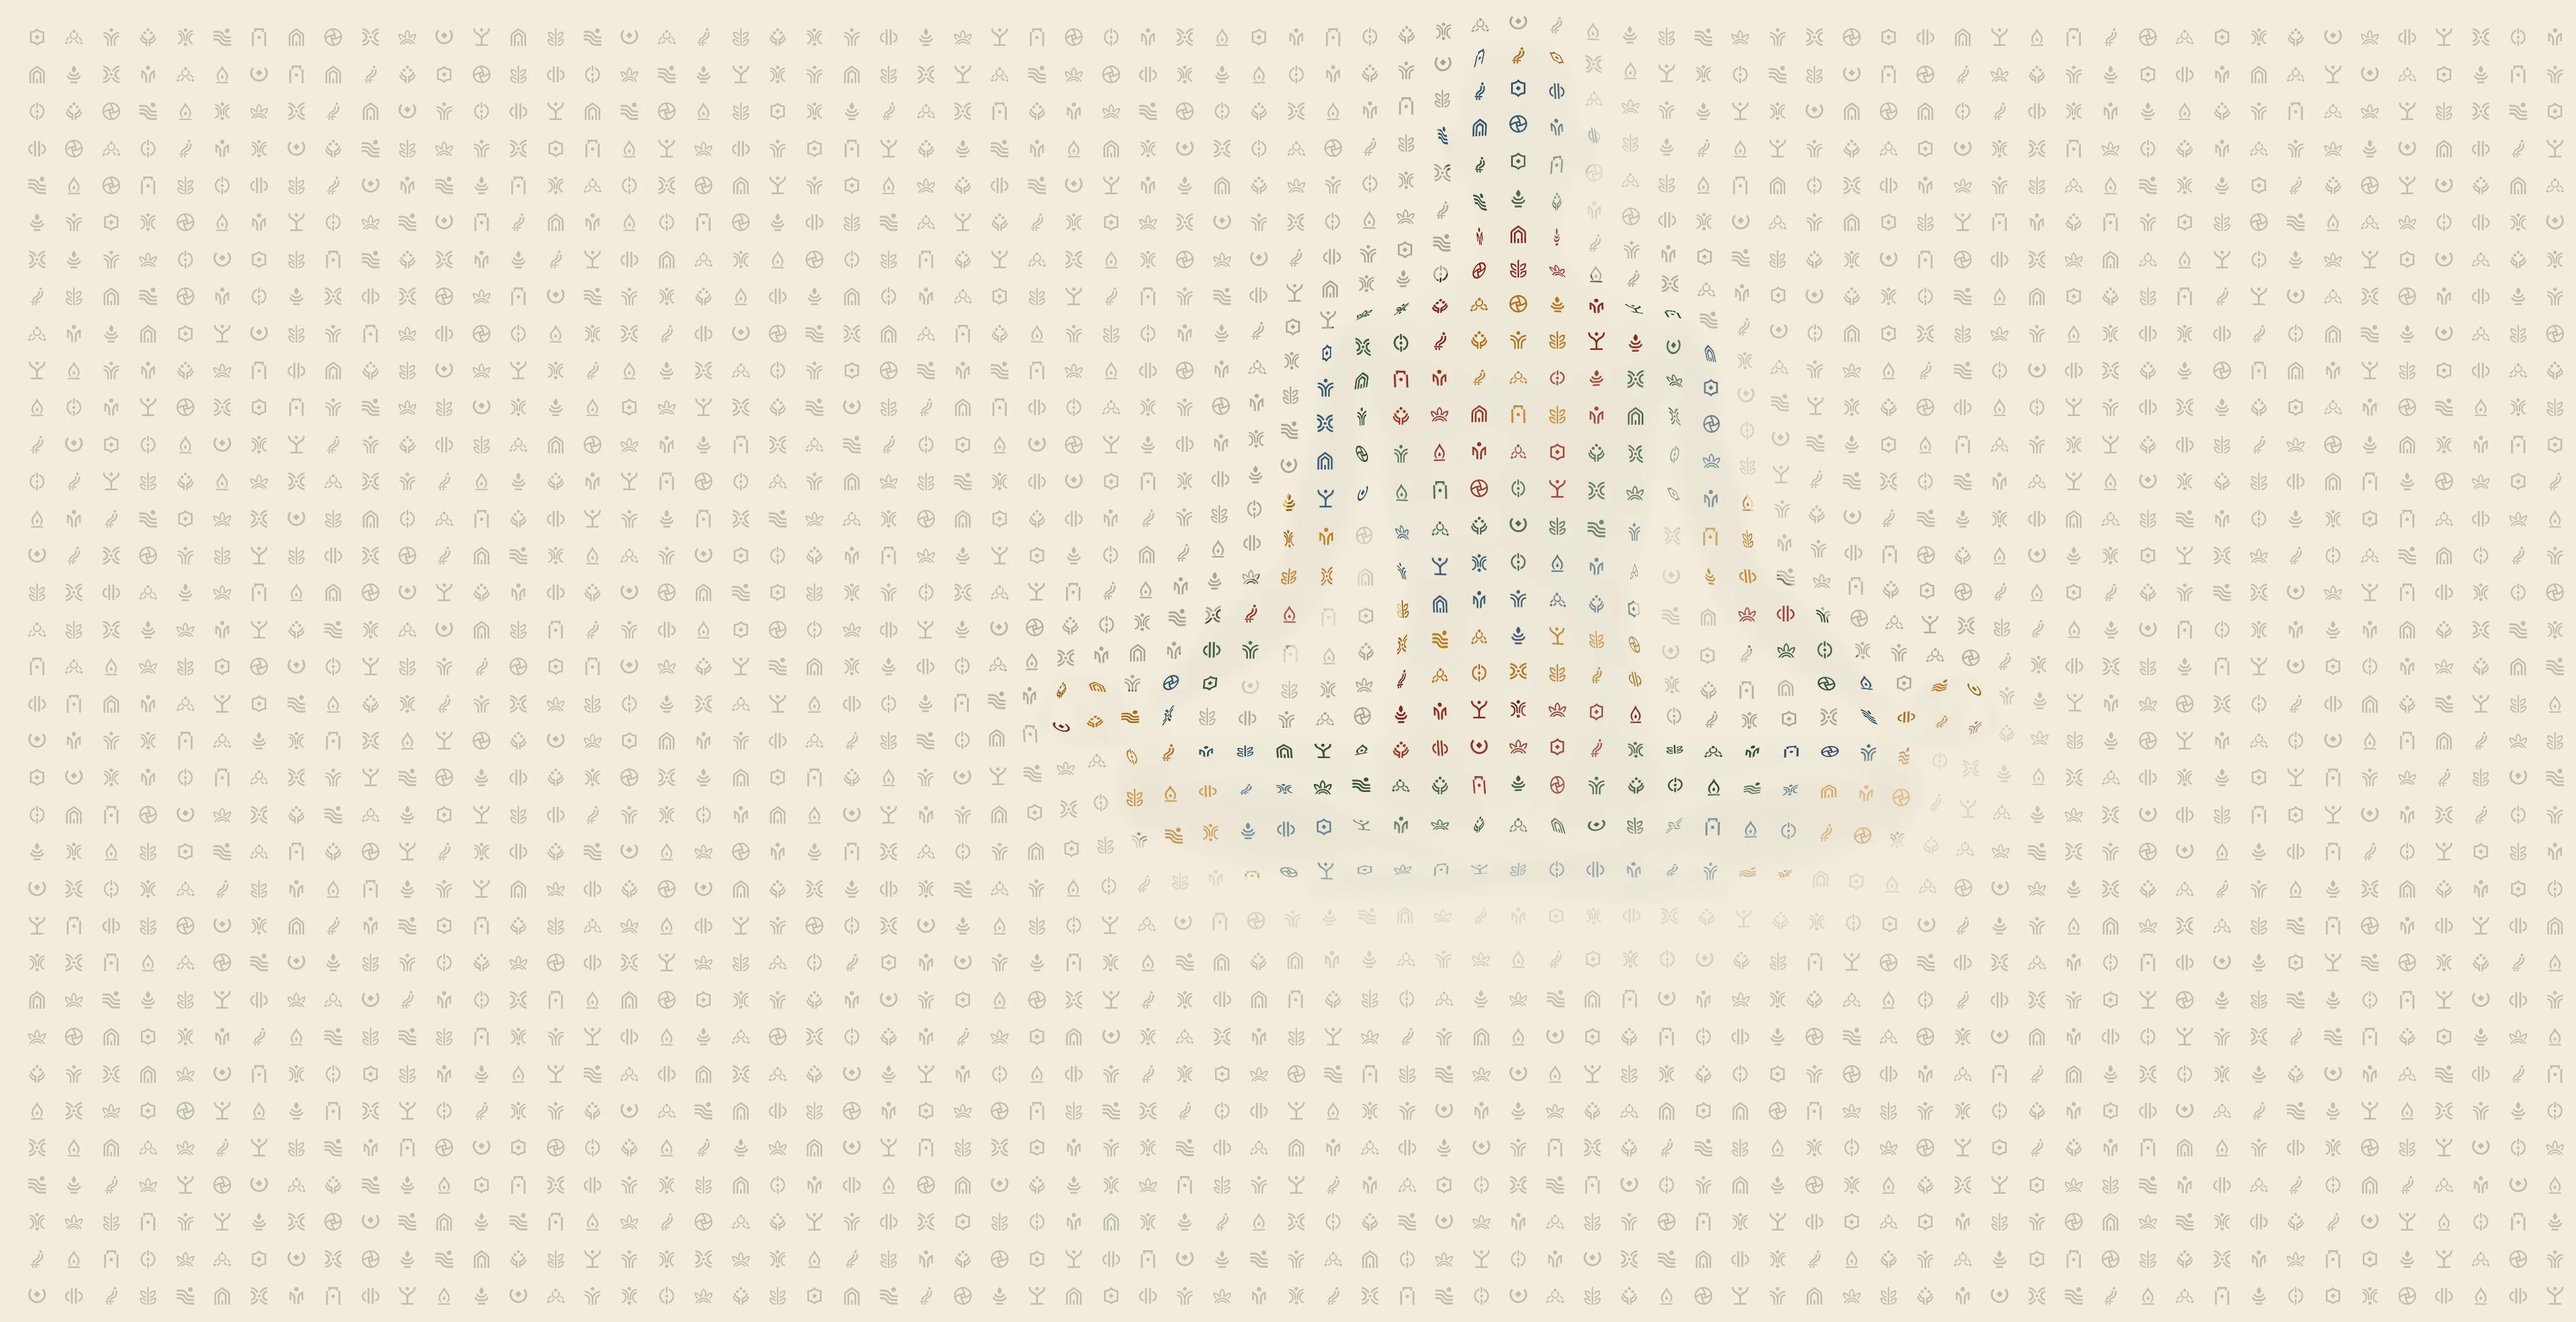
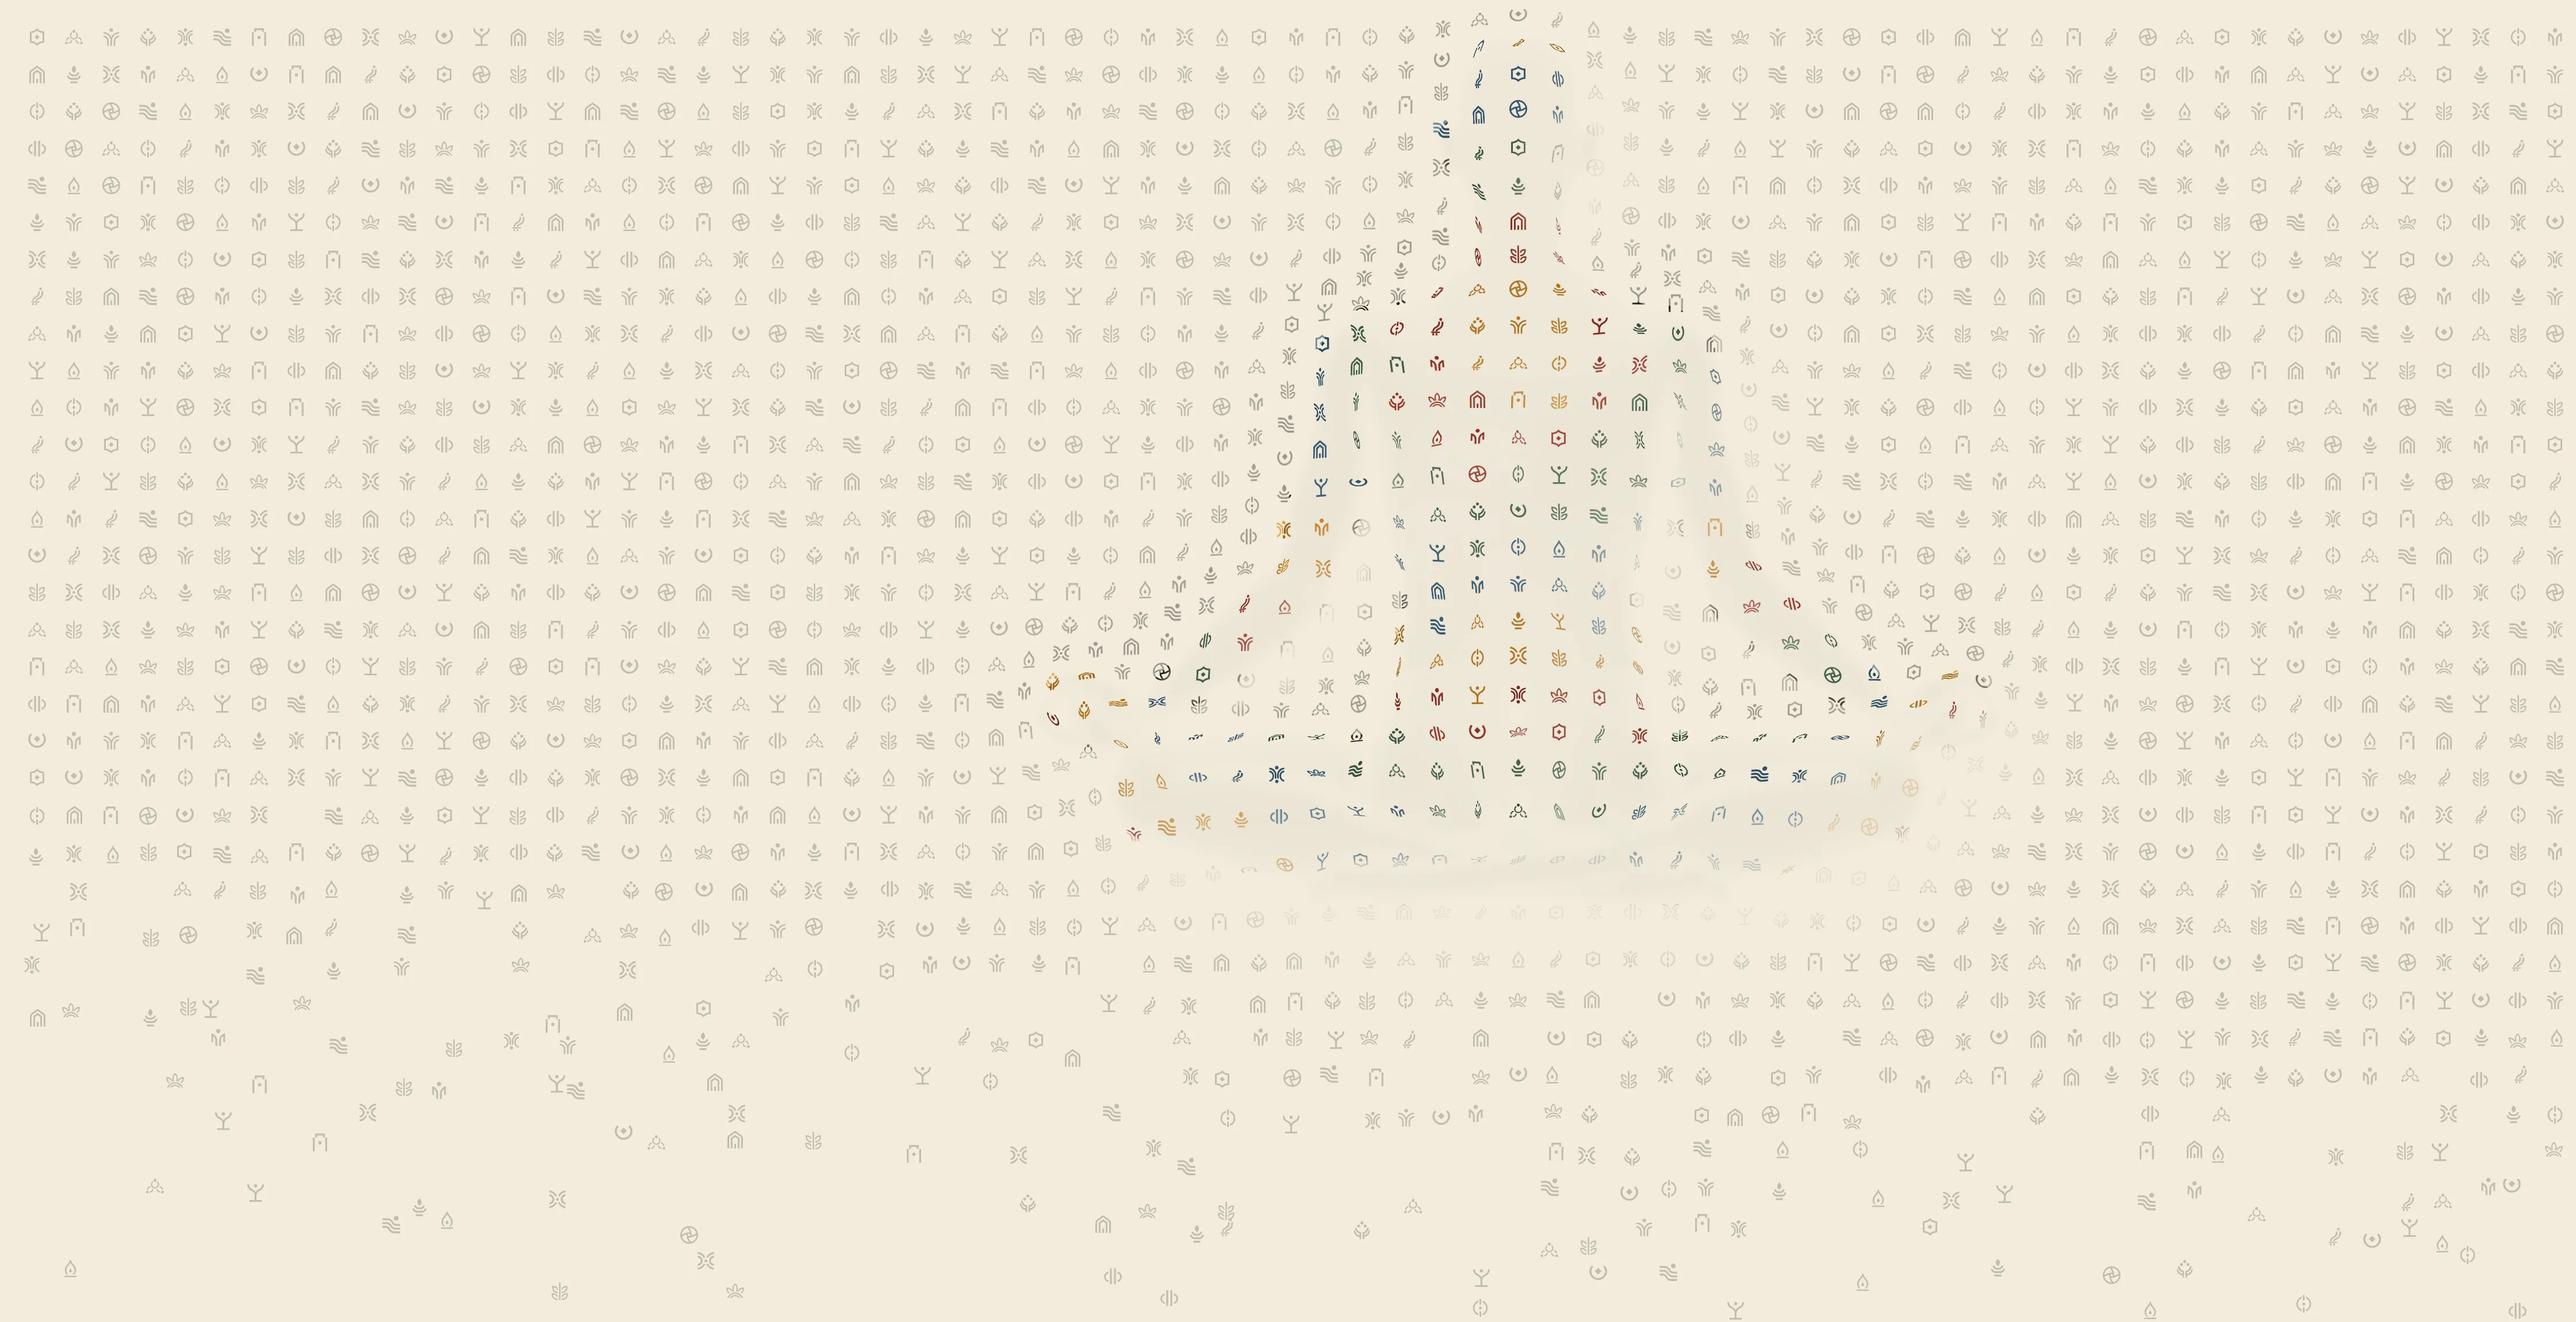
Hero: stronger 3D and distortion; field gently disperses below the figure (local)
Claude-Session: https://claude.ai/code/session_01Faxypstm6H8yAswypDCHBa

diff --git a/scripts/hero-glyph-field.py b/scripts/hero-glyph-field.py
@@ -39,11 +39,11 @@ SEED=7
 # figure alike, is shifted by that surface, so rows arch up over the body and fold at its edges, like a grid draped
 # over it; light from the top left shades the slopes. Glyph sizes never change, and figure membership is tested at
 # each glyph's shifted position, so the outline stays exact.
-RELIEF_SOFT=44            # softness of the surface's edge (units): smaller = sharper fold at the outline
-RELIEF_LIFT=30            # how far the grid lifts over the body (units, upwards)
-RELIEF_SWELL=0.07         # how much the grid widens over the body, from its centre line (share of the distance)
+RELIEF_SOFT=38            # softness of the surface's edge (units): smaller = sharper fold at the outline
+RELIEF_LIFT=44            # how far the grid lifts over the body (units, upwards)
+RELIEF_SWELL=0.11         # how much the grid widens over the body, from its centre line (share of the distance)
 RELIEF_FOLD=0             # extra pull of the grid into the edge (units): rows bunch at the outline
-EMBOSS=0.55               # light and shadow on the slopes (0 = none)
+EMBOSS=0.75               # light and shadow on the slopes (0 = none)
 # Glyphs on the 3D body (Nov 17): each figure glyph is bent by the surface under it. The body is the silhouette inflated
 # into a rounded form (with the shading map adding the inner forms), and each glyph is squashed along the slope by how
 # far the surface turns away from the viewer (foreshortening) and tilted with it: full size on the flat parts, thin
@@ -51,10 +51,18 @@ EMBOSS=0.55               # light and shadow on the slopes (0 = none)
 GLYPH_3D=True             # Nov 17 trial, off: set True to bend the figure glyphs (not on the site yet)
 BODY_ROUND=90             # how far in from the outline the body rounds over (units): larger = rounder, more squashing
 BODY_FORM=0.45            # how much the shading map shapes the inner forms (arms, legs)
-SQUASH_MIN=0.18           # thinnest a glyph gets at the outline (share of its width)
-TILT=0.22                 # extra shear of a glyph along the slope (0 = squash only)
-SKIRT=34                  # the sheet slopes down from the body into the field over this distance (units): field glyphs
-SKIRT_DROP=0.55           #   there squash and tilt too; SKIRT_DROP is the slope at the outline relative to the body's edge
+BODY_DEPTH=1.6             # how deep the body is relative to how far it rounds over: higher = glyphs turn away sooner (Nov 17)
+# Gentle dispersal (Nov 17): below the figure, field glyphs thin out, loosen and drift down towards the next section,
+# starting a little earlier on the left. Only field glyphs; the figure is untouched.
+SCATTER_START=40          # starts this far below the seat line (units); earlier by SCATTER_LEFT towards the left edge
+SCATTER_LEFT=160          #   (units earlier at stage x 0 than under the figure)
+SCATTER_LEN=330           # distance over which the field thins out (units)
+SCATTER_KEEP=0.12         # share of glyphs left at the end
+SCATTER_DRIFT=16          # how far glyphs wander from their place at the end (units, mostly downwards)
+SQUASH_MIN=0.12           # thinnest a glyph gets at the outline (share of its width)
+TILT=0.32                 # extra shear of a glyph along the slope (0 = squash only)
+SKIRT=46                  # the sheet slopes down from the body into the field over this distance (units): field glyphs
+SKIRT_DROP=0.8            #   there squash and tilt too; SKIRT_DROP is the slope at the outline relative to the body's edge
 # Figure definition (Nov 17): a very faint ink outline along the silhouette, and soft shading of the body itself from the
 # shading map (darker where the form turns away), so the shape reads between the glyphs.
 OUTLINE=0.0               # strength of the outline (0..1 of ink); Nov 17: off, shading only
@@ -99,7 +107,7 @@ d_body=nd.distance_transform_edt(Mf>0.5)/S
 prof=np.sqrt(np.clip(1-(1-np.clip(d_body/BODY_ROUND,0,1))**2,0,1))
 form=nd.gaussian_filter(Tf,10*S)/np.maximum(nd.gaussian_filter(W8,10*S),1e-3); fm=Mf>0.5
 form=np.clip((form-np.percentile(form[fm],10))/(np.percentile(form[fm],90)-np.percentile(form[fm],10)+1e-6),0,1)
-hb=BODY_ROUND*prof*((1-BODY_FORM)+BODY_FORM*form)*fm
+hb=BODY_DEPTH*BODY_ROUND*prof*((1-BODY_FORM)+BODY_FORM*form)*fm
 d_fld=nd.distance_transform_edt(~fm)/S                       # the skirt: the sheet falls from the outline into the field
 hb=hb+(~fm)*SKIRT_DROP*SKIRT*np.exp(-d_fld/SKIRT)
 hb=nd.gaussian_filter(hb,3*S)
@@ -136,6 +144,13 @@ for j,y in enumerate(np.arange(-SP,HU+SP,SP)):
     for ci,x in enumerate(np.arange(CX-np.ceil((CX-(XL-SP))/SP)*SP,XL+WU+SP,SP)):   # straight rows and columns, a column on the figure's axis
         g=gl[pick(j,ci)]; u=rng.random(); col=None
         wx,wy=warp(x,y)
+        if not DISPERSE:
+            yl,xl=y+wy,x+wx
+            st=BASE+SCATTER_START-SCATTER_LEFT*np.clip((CX-xl)/CX,0,1)
+            if yl>st and not M[min(max(P(yl),0),H_-1),min(max(P(xl+DX),0),W_-1)]>0.5:
+                t=np.clip((yl-st)/SCATTER_LEN,0,1); t=t*t*(3-2*t)
+                if u>1-(1-SCATTER_KEEP)*t: continue
+                wx+=np.random.normal(0,SCATTER_DRIFT*0.45*t); wy+=abs(np.random.normal(0,SCATTER_DRIFT*t))
         if DISPERSE and y>=DTOP:
             t=np.clip((y-DTOP)/(DBOT-DTOP),0,1)
             edge=0.5+0.22*np.sin(x/97+1.3)+0.14*np.sin(x/41+0.4)+0.08*np.sin(x/23+2.1)

diff --git a/docs/edit-ledger.md b/docs/edit-ledger.md
@@ -766,3 +766,12 @@ commits. Hashes below were backfilled for commits made before the ledger existed
 - Undone from later trials: the magnet pull toward the outline and the notched waterfall (`6079da4`). Kept: the generator's `FIGURE_OUT` export (`5a6d0a2`), which doesn't change the page.
 - The band version with the glyph figure stays on the local branch `bands-glyph-figure`, not pushed.
 - Why: Dat, Nov 17 ("go back to this exact version and push, just shading no outline").
+
+### 2026-11-17 · Hero: stronger 3D and distortion; field disperses below the figure (local, not pushed) (`home-04-lanes` only)
+- **Stronger 3D.** The body is deeper (`BODY_DEPTH` 1.6), so glyphs start turning away further in from the outline. They get thinner (`SQUASH_MIN` 0.12) and tilt more (`TILT` 0.32). The field next to the body squashes over a wider band (`SKIRT` 46, `SKIRT_DROP` 0.8).
+- **Stronger distortion.** The grid lifts and widens more over the body, with a firmer edge: `RELIEF_LIFT` 44, `RELIEF_SWELL` 0.11, `RELIEF_SOFT` 38. Light and shade on the slopes are stronger (`EMBOSS` 0.75).
+- **Gentle dispersal.** Below the figure, field glyphs thin out, loosen and drift slightly downward toward "Realization as a fitness". It starts earlier toward the lower left, where the field reaches furthest down.
+  - About 12% of glyphs remain at the end of the dispersal, over roughly 330 units (`SCATTER_*`).
+  - The figure's own glyphs are untouched.
+- Provisional: committed locally; waiting for Dat's go-ahead to push.
+- Why: Dat, Nov 17.
